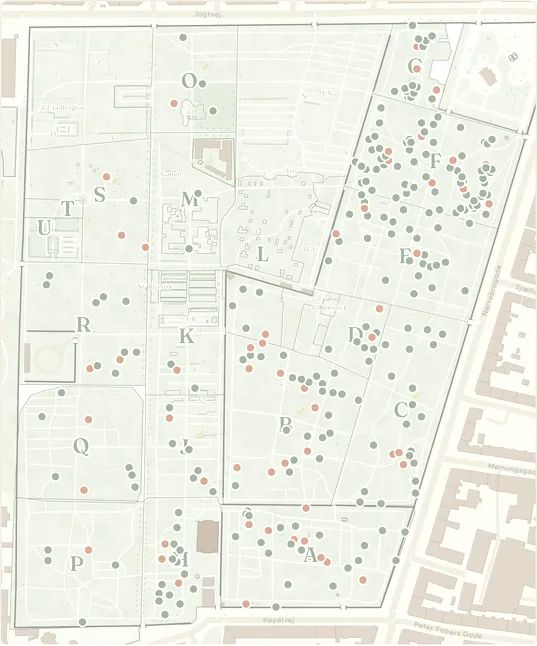
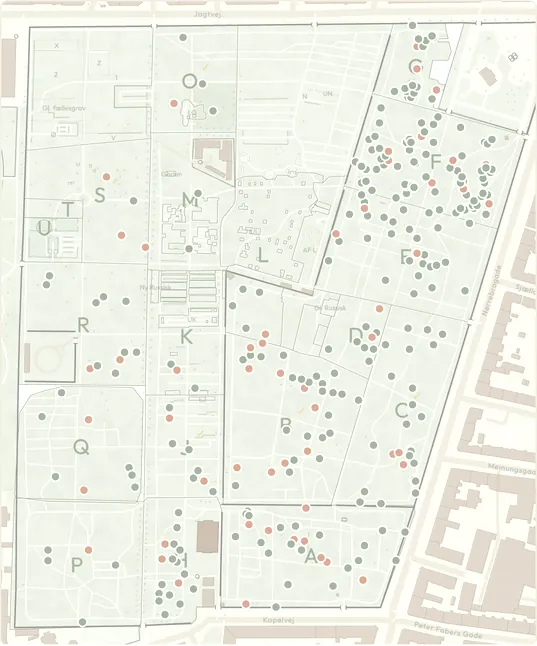
Grundkort: "plan" som fjerde retning (skitse af syntesen), dobbelte bogstaver rettet, VERSION 2026-10-07c
- scripts/kort_render.mjs: retningen plan efter NOTAT-grundkort-design.md afsnit 4:
  afdelinger i tre-fire mos-toner uden ens naboer, stier som lyse mellemrum tegnet
  efter fladerne, omgivelser flade og uden skravering, ingen teksturer eller
  OSM-træer, småbygninger under 40 m² udeladt, Fraunces 46 px. 82 KB webp / 50 KB
  avif i 1× (budget 102 / 76). De øvrige tre retninger er renderet igen og er
  byte-identiske.
- index.html: plan i 🗺 Grundkort; body[data-gk] så SVG-laget kun tegner det valgte
  bogstav på de grundlag, der selv bærer bogstaver (før stod de dobbelt).
- docs/grundkort/: skærmbilleder af plan (lys/mørk, med/uden lag, sol, lup) og de
  fire lag-billeder genskabt uden dobbeltbogstaver.
- NOTAT-grundkort-design.md afsnit 8: hvad skitsen viser, og hvad der stadig mangler.
- tests/grundkort.test.mjs 12/12, check_positions.py grøn.

diff --git a/index.html b/index.html
@@ -409,6 +409,7 @@ body.placing #afdlag .gk-afd{pointer-events:none} /* som .hot: mens et træ plac
 #afdlag .gk-afd.peek{stroke:var(--gold);stroke-width:2}
 #afdlag .gk-afd.active{stroke:var(--gold);stroke-width:3;fill-opacity:.22}
 #afdlag .gk-lbl.active{fill:var(--gold)}
+body[data-gk=tegnet] #afdlag .gk-lbl:not(.active),body[data-gk=stille] #afdlag .gk-lbl:not(.active),body[data-gk=plan] #afdlag .gk-lbl:not(.active){opacity:0} /* disse bitmaps bærer selv bogstaverne; SVG'en tegner kun det valgte (guld), så bogstaverne ikke står dobbelt */
 #afdlag .gk-done{display:none;fill:var(--gold);font-size:18px;font-weight:600;pointer-events:none}
 #afdlag .gk-done.done{display:inline}
 .kkdot{position:absolute;display:none;transform:translate(-50%,-50%);z-index:3;padding:0;border:0;cursor:pointer}
@@ -446,7 +447,7 @@ body.calib.kkl .kkdot.reg:hover{box-shadow:0 0 0 3px rgba(200,162,74,.7);z-index
     <button class="calbtn" id="calStopBtn">⏺ Stop</button>
     <button class="calbtn" id="calTurBtn" aria-pressed="false">🚶 Omvisning</button>
     <button class="calbtn" id="calOrtoBtn" aria-pressed="false" title="Luftfoto forår 2025 lagt oven på kortet">🛰 Ortofoto</button><input type="range" id="ortoOp" min="0" max="100" value="70" aria-label="Ortofotoets synlighed" hidden>
-    <button class="calbtn" id="calBaseBtn" title="Skift grundlag: KK's kort, tegnet plan, stille kort eller ortofoto (prototyper, issue #12)">🗺 Grundkort: KK</button>
+    <button class="calbtn" id="calBaseBtn" title="Skift grundlag: KK's kort, tegnet plan, stille kort, ortofoto eller plan (prototyper, issue #12; plan er skitsen i NOTAT-grundkort-design.md)">🗺 Grundkort: KK</button>
     <button class="calbtn" id="calAfdBtn" aria-pressed="false" title="Afdelingspolygoner fra kommunens data som trykflader oven på grundlaget">🔲 Afdelinger</button>
     <button class="calbtn" id="calKKBtn" aria-pressed="false" title="Kommunens træregister og LiDAR-detekterede træer som punkter">🌳 KK-træer</button>
     <span class="count" id="calcount" style="margin-left:auto"></span>
@@ -1361,8 +1362,8 @@ document.getElementById('calOrtoBtn').onclick=()=>setOrto(!document.body.classLi
 ortoOp.oninput=()=>{ortoEl.style.opacity=ortoOp.value/100;};
 // ————— Eget grundkort (prototyper, issue #12; se NOTAT-grundkort.md): grundlag og afdelingspolygoner, kun i kalibreringstilstand —————
 // Alle filer i data/ ligger i kort.png's pixelnet (1400 × 1216, @2x = 2800 × 2432), så FRACS, ankre og positions.json gælder uændret.
-const GK_KEY='assistens_grundkort_v1',AFD_KEY='assistens_afdlag_v1',GK_RET=['kk','tegnet','stille','orto'],
-      GK_NAVN={kk:'KK',tegnet:'tegnet plan',stille:'stille kort',orto:'ortofoto'};
+const GK_KEY='assistens_grundkort_v1',AFD_KEY='assistens_afdlag_v1',GK_RET=['kk','tegnet','stille','orto','plan'],
+      GK_NAVN={kk:'KK',tegnet:'tegnet plan',stille:'stille kort',orto:'ortofoto',plan:'plan (skitse)'};
 const gkEl=document.getElementById('grundkort'),gkMoerk=window.matchMedia?matchMedia('(prefers-color-scheme: dark)'):null;
 let grundkort='kk',afdPaa=false,afdHentes=false;
 try{const v=localStorage.getItem(GK_KEY);if(GK_RET.includes(v))grundkort=v;afdPaa=localStorage.getItem(AFD_KEY)==='1';}catch(e){}
@@ -1370,7 +1371,7 @@ function updGrundkort(){
   const on=document.body.classList.contains('calib')&&grundkort!=='kk';
   if(on){const b='data/kort_'+grundkort+(gkMoerk&&gkMoerk.matches?'_moerk':''),src=b+'.webp';
     if(gkEl.getAttribute('src')!==src){gkEl.srcset=src+' 1x, '+b+'@2x.webp 2x';gkEl.src=src;}} // hentes først, når laget vises: ingen netværkskald for besøgende
-  document.body.classList.toggle('gkort',on);
+  document.body.classList.toggle('gkort',on);document.body.dataset.gk=on?grundkort:'kk';
   const btn=document.getElementById('calBaseBtn');btn.textContent='🗺 Grundkort: '+GK_NAVN[grundkort];btn.classList.toggle('on',grundkort!=='kk');
   if(cand)drawLoupe();
 }

diff --git a/sw.js b/sw.js
@@ -3,7 +3,7 @@
 //
 // VIGTIGT: Bump VERSION ved hvert deploy, der ændrer index.html, kortet, fonte eller ikoner.
 // Ellers kan en gammel side hænge fast i cachen hos dem, der allerede har besøgt siden.
-const VERSION = '2026-10-07b';
+const VERSION = '2026-10-07c';
 const CACHE = 'traekort-' + VERSION;
 const CORE = ['./', './index.html', './manifest.webmanifest'];
 

diff --git a/NOTAT-grundkort-design.md b/NOTAT-grundkort-design.md
@@ -322,16 +322,73 @@ og om bogstaverne kan læses. Det består alle retninger. Tilføj:
 1. **Lagdelingen:** stregværk og tekst ud af bitmap'en og ind i SVG'en; ret
    dobbelttegningen af bogstaver i `index.html` (`--gk-lbl-op`, eller bedre:
    bitmap uden bogstaver). Luppen på ortofotoet altid.
-2. **Render "plan"** efter tabellen i afsnit 4 som fjerde retning i
-   `kort_render.mjs` (`--kun plan`), lys og mørk, og læg den i
-   sammenligningstavlen. Fjern kroner, gravprikker, OSM-træer og skravering; stier
-   som negativt rum; tre afdelingstoner; øer uden kontur.
+2. **"Plan" er renderet som skitse** (afsnit 8) og kan ses med 🗺 Grundkort.
+   Næste skridt på den: stihierarki (gravrækkernes stier smallere), L's øer
+   samlet, kapellet dæmpet i mørk, og tonefordelingen justeret.
 3. **Afprøv ren SVG** (anbefaling A) på den ældste telefon; fald tilbage til B,
    hvis den hakker ved zoom.
 4. **Trykmål:** `.hot` som usynligt 44 px-mål i centroiden; polygon som sekundært.
 5. **Felttest** med vejfindingsopgaver og KK som nullinje (afsnit 6), og vælg.
 6. **Derefter** det, der allerede står i migrationsplanen: U's grænse, kreditering,
    header, README, `VERSION`, "Luftfoto"-knap for besøgende.
+
+## 8. Skitse: "plan" renderet
+
+For at vise, at afsnit 4 ikke kun er ord, er "plan" lagt ind som fjerde retning
+i `scripts/kort_render.mjs` (`node scripts/kort_render.mjs --kun plan`) og
+renderet i lys og mørk udgave til `data/kort_plan*.webp`. Den kan ses på
+telefonen med `#kal=1` → 📍 Kalibrér → 🗺 Grundkort, indtil knappen siger
+"plan (skitse)", gerne med 🔲 Afdelinger. Skærmbilleder i samme opsætning som
+de andre ligger i `docs/grundkort/plan_*.webp` og `sol_plan.webp`.
+
+Skitsen følger tabellen i afsnit 4 med disse forenklinger: afdelingerne er
+farvet grådigt i op til fire toner (naboskab = inden for 24 px, så også
+afdelinger på hver side af en sti regnes som naboer; fjerde tone blev brugt
+12 gange af 41 flader); alle stier har samme bredde-regel (OSM's bredde × 2,3,
+altså 5 px for footway og 4 px for path); øer i L, K, D og M tegnes kun med
+fyld og en 0,8 px kant i 30 % blæk; bygninger inde på kirkegården under 40 m²
+er udeladt; ingen teksturer, ingen OSM-træer; bogstaver Fraunces 600 i 46 px.
+Bitmap'en bærer stadig stregværk og bogstaver (afsnit 3's lagdeling er *ikke*
+ændret i skitsen; den afprøver kun udtrykket).
+
+**Størrelse** (webp / avif, KB): lys 82 / 50 i 1×, 185 / 100 i 2×; mørk
+85 / 51 og 192 / 102. Budgettet er 102 / 76. Det er altså den første retning
+med OSM-laget, der ligger *under* budgettet, og den koster en tredjedel af
+tegnet plan, fordi teksturer og skravering er væk.
+
+**Hvad skitsen viser** (sammenlign `plan_lys_lag.webp` med
+`tegnet_lys_lag.webp` og `kk_lys_lag.webp`): kirkegården er figuren, byen er
+kulisse; stierne kan ses som lyse mellemrum uden zoom; B, C, D og E kan
+skelnes på tonen, før man finder en grænse; muren er den eneste skarpe linje;
+bogstaverne står som på tegnet plan. I mørk tilstand er der ingen glans:
+dæmpet grøn, grå stier, lys mur og lyse bogstaver.
+
+**Hvad der stadig er galt**, i den rækkefølge det bør rettes:
+
+1. **Stihierarki.** OSM har stier mellem hver gravrække i K, J, H, N og O.
+   Ved 5 px bliver de en hvid kam, der konkurrerer med hovedstierne. Hovedstier
+   (lange, sammenhængende kæder, eller OSM `width`/`name`) skal have 6–7 px,
+   gravrækkernes stier 2–2,5 px, og de bør måske først vises ved zoom. KK's
+   kort gør præcis det: brede gange, tynde rækker.
+2. **L's øer.** 39 små flader med hver sin svage kant læses stadig som pletter.
+   Kanten skal kun ligge på afdelingens ydergrænse (union af polygonerne).
+3. **Kapellet** er hvidt i mørk tilstand (85 % blæk). Dæmp til 65–70 %.
+4. **Tonefordelingen.** Fire toner med 8 %-trin giver for lille forskel mellem
+   nabo-toner nogle steder (fx B og D). Brug tre toner med 10 %-trin
+   (16/26/36 %) og en naboskabstærskel på 12–16 px, og vælg bevidst, hvilke
+   afdelinger der får den mørkeste tone (de små: G, T, U, H).
+5. **U** er stadig en cirkel, og underafdelingsnavne, orienteringspunkter og
+   gravmønster er ikke med (de hører til zoom-laget i SVG'en, afsnit 3).
+6. **Træprikkerne** (7 px `moss-d` med 1,5 px papirring) har mindre kontrast på
+   de grønne flader end på tegnet plans beige (se `plan_lys_lag.webp` mod
+   `tegnet_lys_lag.webp`). Papirringen bærer dem stadig, men ved valget af
+   "plan" bør ringen op på 2 px, eller prikken i `ink`, så træerne, der er
+   kortets egentlige indhold, forbliver det mest kontrastrige på kortet. I mørk
+   tilstand er der intet problem (lys prik på mørk flade).
+
+Sol-simuleringen (`sol_plan.webp` mod `sol_stille.webp` og `sol_tegnet.webp`)
+viser det, afsnit 2.8 forudsiger: fladerne og de brede stier overlever som
+struktur, hvor stille kort blev hvidt og tegnet plan beholdt bogstaverne alene.
 
 ## Tal brugt i notatet
 

diff --git a/data/README.md b/data/README.md
@@ -56,9 +56,10 @@ oktober 2026, bearbejdet.*
 ## Eget grundkort (`scripts/kort_render.mjs`)
 
 Renderet 2026-10-07 med `node scripts/kort_render.mjs` (Playwright/Chromium; webp og avif med Pillow, da
-cwebp/avifenc ikke fandtes). Tre retninger, hver i lys og mørk udgave, i 1× (1400 × 1216) og 2× (2800 × 2432):
-`kort_tegnet*` (tegnet plan), `kort_stille*` (stille kort) og `kort_orto*` (dæmpet ortofoto; afdelinger
-tegnes kun af vektorlaget). `afdelinger.svg` er vektorlaget med de 19 trykflader (`#afd-A` …) og følger
+cwebp/avifenc ikke fandtes). Fire retninger, hver i lys og mørk udgave, i 1× (1400 × 1216) og 2× (2800 × 2432):
+`kort_tegnet*` (tegnet plan), `kort_stille*` (stille kort), `kort_orto*` (dæmpet ortofoto; afdelinger
+tegnes kun af vektorlaget) og `kort_plan*` (plan: skitse af syntesen i `NOTAT-grundkort-design.md`, uden teksturer,
+med stier som lyse mellemrum og afdelinger i tre-fire toner). `afdelinger.svg` er vektorlaget med de 19 trykflader (`#afd-A` …) og følger
 sidens CSS-variabler. Kun webp ligger i repoet; PNG og AVIF er målt lokalt.
 
 - **OSM:** hentet 2026-10-07 (2798 elementer, © OpenStreetMap-bidragydere, ODbL); omrids fra OSM way 3099111.
@@ -81,6 +82,10 @@ KB = 1024 byte. 1×-målet fra issuet: `kort.png` 215 KB, `kort.webp` 102 KB, `k
 | `kort_orto@2x.webp` | 2800 × 2432 | 8972 | 840 | 645 |
 | `kort_orto_moerk.webp` | 1400 × 1216 | 2370 | 209 | 158 |
 | `kort_orto_moerk@2x.webp` | 2800 × 2432 | 8184 | 590 | 472 |
+| `kort_plan.webp` | 1400 × 1216 | 222 | 82 | 50 |
+| `kort_plan@2x.webp` | 2800 × 2432 | 494 | 185 | 100 |
+| `kort_plan_moerk.webp` | 1400 × 1216 | 240 | 85 | 51 |
+| `kort_plan_moerk@2x.webp` | 2800 × 2432 | 535 | 192 | 102 |
 | `afdelinger.svg` | viewBox 1400 × 1216 | | 129 (svg) | |
 <!-- kort_render:end -->
 
